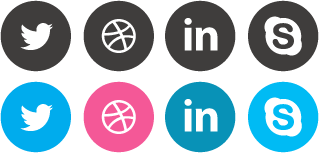
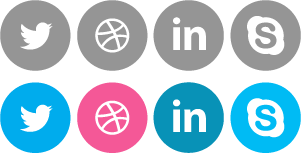
Redesign

diff --git a/assets/stylesheets/application.css b/assets/stylesheets/application.css
@@ -1,24 +1,25 @@
 @import url(/assets/stylesheets/reset.css);
-@import url(http://fonts.googleapis.com/css?family=Raleway:300);
+@import url(http://fonts.googleapis.com/css?family=Montserrat);
 
-html, body {
+html,
+body {
   height: 100%;
   padding: 0;
   margin: 0;
 }
 
 body {
-  font-family: 'Raleway', sans-serif;
-  color: #FFF;
+  font-family: 'Montserrat', sans-serif;
+  color: #444;
   font-size: 16px;
-  background: #000;
-  background-image: url(../images/background-pattern.png), url(../images/background.jpg);
-  background-repeat: repeat, no-repeat;
-  background-position: top left, center center;
-  -webkit-background-size: auto, cover;
-  -moz-background-size: auto, cover;
-  -o-background-size: auto, cover;
-  background-size: auto, cover;
+  background: #EDEBEB;
+}
+
+header,
+.portfolio,
+footer {
+  width: 70%;
+  margin: 0 auto;
 }
 
 /* Selection ******************************************************/
@@ -32,73 +33,43 @@ body {
 }
 
 /* Header *********************************************************/
-.main-header {
-  width: 55%;
-  margin: 7% auto 0 auto;
+header {
   text-align: center;
-  padding: 7% 0;
-  background: url(/assets/images/logo.png) no-repeat top center;
+  padding-top: 98px;
+  background: #444 url(/assets/images/logo.png) no-repeat 50% 36px;
 }
 
-.main-header h1 {
+header hgroup {
   display: none;
 }
 
-.main-header p {
-  font-size: 1.6em;
-  display: inline;
+.header-content {
+  background: #FFF;
+  padding-bottom: 25px;
 }
 
-.main-nav {
-  overflow: auto;
-  margin-top: 4em;
-}
-
-.main-nav ul {
-  text-align: center;
-}
-
-.main-nav li {
-  display: inline-block;
+header p.description {
+  font-size: 0.9em;
+  padding: 4% 20% 1% 20%;
+  line-height: 2em;
 }
 
 .main-nav a {
   text-transform: uppercase;
-  float: left;
   color: #FFF;
+  display: inline-block;
+  margin: 12px auto;
+  font-size: 0.9em;
+  padding: 0.9em 2.3em;
   font-weight: bold;
-  margin: 0 20px;
-  -moz-border-radius: 3px;
+  background: #E84C3D;
   -webkit-border-radius: 3px;
-  border-radius: 3px;
-  padding: 0.9em 0;
-  width: 160px;
+     -moz-border-radius: 3px;
+          border-radius: 3px;
 }
 
-.main-nav a.primary {
-  -webkit-box-shadow: inset 0px 1px 4px 0px rgba(255, 255, 255, 0.4);
-  box-shadow: inset 0px 1px 4px 0px rgba(255, 255, 255, 0.4);
-  background: #FAA61A;
-}
-
-.main-nav a.primary:hover {
-  -webkit-box-shadow: inset 0px 1px 4px 0px rgba(100, 100, 100, 0.4);
-  box-shadow: inset 0px 1px 4px 0px rgba(100, 100, 100, 0.4);
-}
-
-.main-nav a.secondary {
-  -webkit-box-shadow: inset 0px 1px 1px 0px rgba(180, 180, 180, 0.2);
-  box-shadow: inset 0px 1px 1px 0px rgba(180, 180, 180, 0.2);
-  background: #323232;
-}
-
-.main-nav a.secondary:hover {
-  -webkit-box-shadow: inset 0px 1px 1px 0px rgba(0, 0, 0, 0.2);
-  box-shadow: inset 0px 1px 1px 0px rgba(0, 0, 0, 0.2);
-}
-
-.main-nav a:active {
-  position: relative;
+.main-nav a:hover {
+  background: #F35041;
 }
 
 /* Portfolio *********************************************************/
@@ -131,9 +102,9 @@ body {
 
 /* Footer ************************************************************/
 footer {
-  background: #0E0C0B;
+  background: #FFF;
   overflow: auto;
-  padding: 80px 0;
+  padding: 70px 0;
 }
 
 .contact-links ul {
@@ -158,59 +129,41 @@ footer {
 }
 
 .contact-links a.twitter { background-position: 0 0; }
-.contact-links a.dribble { background-position: -83px 0; }
-.contact-links a.linkedin { background-position: -164px 0; }
-.contact-links a.skype { background-position: -247px 0; }
+.contact-links a.dribble { background-position: -77px 0; }
+.contact-links a.linkedin { background-position: -153px 0; }
+.contact-links a.skype { background-position: -230px 0; }
 
-.contact-links a.twitter:hover { background-position: 0 -81px; }
-.contact-links a.dribble:hover { background-position: -83px -81px; }
-.contact-links a.linkedin:hover { background-position: -164px -81px; }
-.contact-links a.skype:hover { background-position: -247px -81px; }
+.contact-links a.twitter:hover { background-position: 0 -82px; }
+.contact-links a.dribble:hover { background-position: -77px -82px; }
+.contact-links a.linkedin:hover { background-position: -153px -82px; }
+.contact-links a.skype:hover { background-position: -230px -82px; }
 
 /* Media Queries *************************************************************************************************************************/
 @media screen and (max-width: 900px) {
-  .main-header {
-    width: 70%;
-  }
-}
-
-@media screen and (max-width: 600px) {
-  .main-header {
-    width: 80%;
-    padding: 14% 0 4% 0;
-  }
-
-  .main-header p {
-    display: inline-block;
-    padding: 0.5em 0;
-  }
-
-  .main-nav li {
-    display: block;
-    margin: 20px auto;
-  }
-
-  .main-nav {
-    margin: 0;
-  }
-
-  .main-nav a {
-    float: none;
-    margin: 0 auto;
-    display: block;
-    width: 100%;
-  }
-
-  .portfolio li {
-    width: 50%;
-  }
-
   footer {
     padding: 30px 0;
   }
 
   .contact-links li {
-    margin: 4% 10%;
+    width: 50%;
+    margin: 2% 0;
+    float: left;
+  }
+  .contact-links a {
+    float: none;
+  }
+}
+
+@media screen and (max-width: 600px) {
+  .portfolio li {
+    width: 50%;
+  }
+
+  header,
+  .portfolio,
+  footer {
+    width: 100%;
+    margin: 0 auto;
   }
 }
 
@@ -220,13 +173,13 @@ footer {
 
   .contact-links a {
     background-image: url(/assets/images/social@x2.png);
-    -webkit-background-size: 319px 153px;
-    background-size: 319px 153px;
+    -webkit-background-size: 301px 153px;
+    background-size: 301px 153px;
   }
 
-  .main-header {
+  header {
     background-image: url(/assets/images/logo@x2.png);
-    -webkit-background-size: 196px 34px;
-    background-size: 196px 34px;
+    -webkit-background-size: 197px 35px;
+    background-size: 197px 35px;
   }
 }
